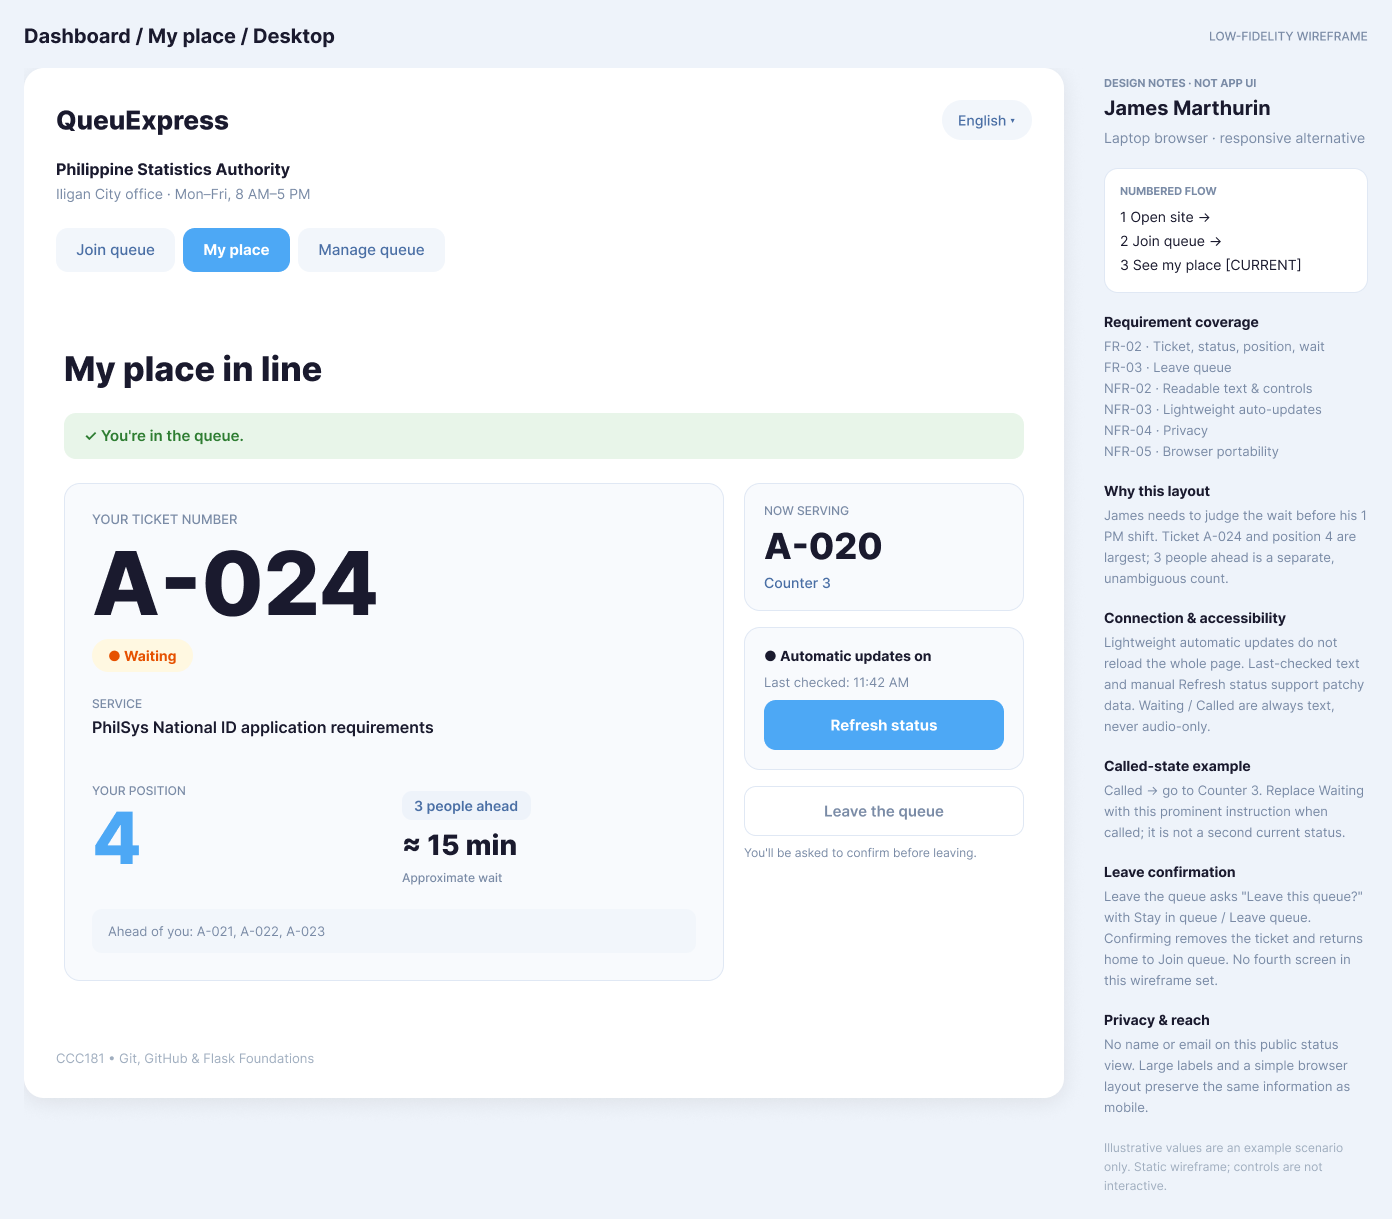
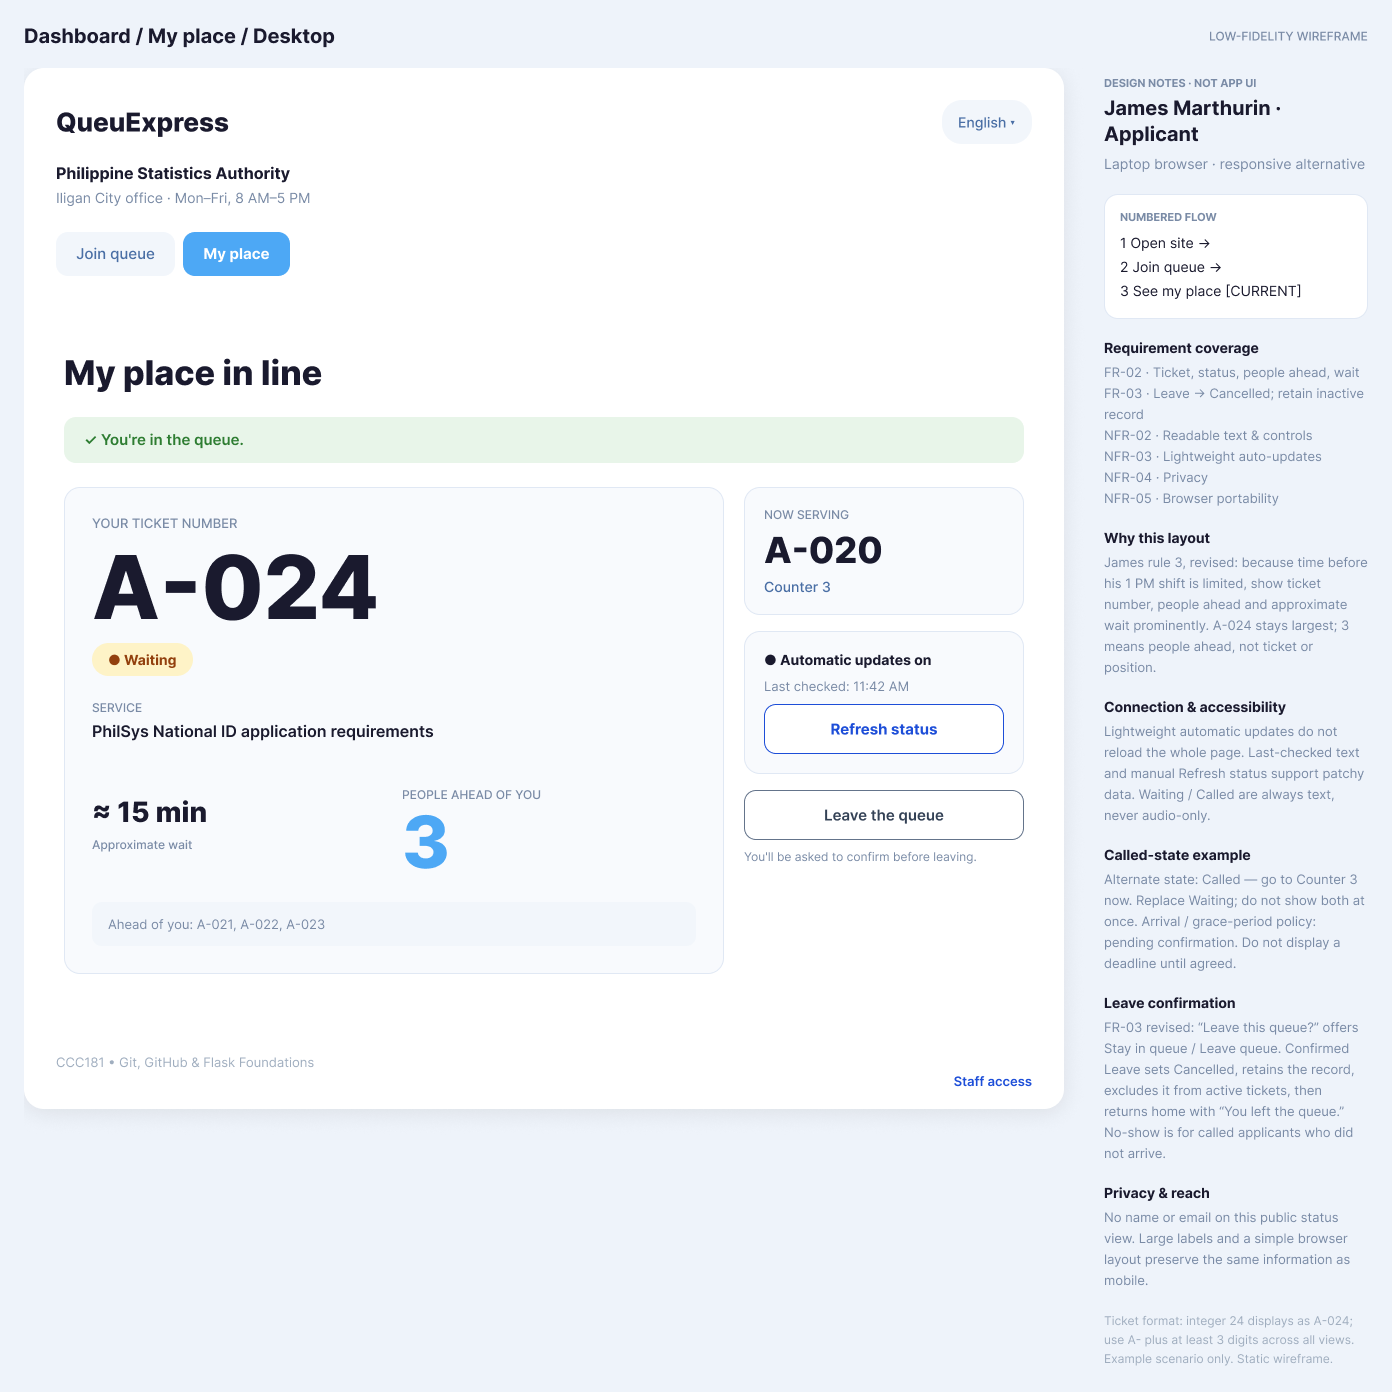
Add Week 3 self-review and update wireframes (#4)

diff --git a/docs/week3/feedback.md b/docs/week3/feedback.md
@@ -1,0 +1,21 @@
+# Week 3: Self-review of personas and wireframes
+
+Reviewed against the James and Donna personas, looking at both the phone and laptop frames of each screen.
+
+## Screen 1: Join queue (James)
+
+> **Works well:** One column, three labeled fields and a full-width "Join queue" button let James see what to do within 5 seconds, even one-handed. The helper text under Email ("Not shown on your ticket view") answers the privacy question at the moment he types, and "Next: your ticket number, position and estimated wait" tells him what happens after he submits. This follows my rule about large, full-width buttons for single-thumb use, and NFR-01.
+> **Problem:** The nav shows "Manage queue" (Donna's staff dashboard) and "My place" (meaningless before he has a ticket) to every applicant. On the phone, "Manage queue" even wraps onto two lines. A tired, one-handed James can tap into the wrong screen by accident. This breaks *match with the real world* and *error prevention*: applicants should only see the choices that make sense for them. The "Quick & easy" box also repeats "No account needed" a second time, which pushes the Join button below the fold on a phone.
+> **Change:** The applicant nav will show only "Join queue" and "My place" (My place appears once a ticket exists). Staff reach "Manage queue" through a separate staff link, not the applicant nav. I will merge "Takes less than 30 seconds" into the single line under the heading and delete the "Quick & easy" box so the form moves up on the phone.
+
+## Screen 2: My place (James)
+
+> **Works well:** The ticket number is the largest element, the status is a text badge with a dot ("Waiting"), and "Automatic updates on / Last checked 11:42 AM" shows James the information is fresh even on spotty lobby data. This is *visibility of system status*, and nothing relies on sound, which follows my rule about high-contrast badges and auto-refresh in a noisy lobby.
+> **Problem:** Two numbers describe the same thing: a large blue "4" (position) and a small "3 people ahead" chip. Beside the ticket number "A-024", a fatigued James can mistake the "4" for his ticket, or read "4" as the number of people ahead. FR-02 asks for the count ahead, and that is the number he uses to decide whether he can step outside with his child. One idea shown as two numbers is a *match with the real world* and *consistency* problem. Also, "Refresh status" is the biggest filled button even though the page updates itself, so it competes with the information, and "Leave the queue" is grey text that looks disabled.
+> **Change:** I will make "3 people ahead" the large figure (labelled "People ahead of you") and remove "Your position 4", keeping "≈ 15 min" beside it. "Refresh status" becomes an outlined secondary button, and "Leave the queue" gets darker text and border so it reads as a real button. I will keep the leave confirmation ("Leave this queue?") because it prevents accidental taps. I will also reword my James rule 3 from "exact position in line" to "people ahead" so the rule matches the wireframe.
+
+## Screen 3: Manage queue (Donna)
+
+> **Works well:** "Call next" comes first and names the ticket it will call ("Call next · A-021"), so Donna never has to remember or look up the number. Serve and No-show are attached to the current called ticket (A-020) instead of every table row, so she can't act on the wrong person. Only Waiting and Called tickets appear, with the rest behind the service filter. This follows my rule about a clean table with simple dropdown filters, and her most frequent action is the easiest to reach.
+> **Problem:** My rule 2 says Serve should be clear green and No-show outline-red, but "Call next" and "Serve" are both solid blue buttons and "No-show" is a neutral outline. Rushing through the morning peak with reduced mouse accuracy, Donna cannot tell "start the next person" from "finish this person" by color, and No-show (which removes an applicant from the queue) looks as harmless as the button beside it. This is an *error prevention* and *consistency* problem. The grey service and details text in the table is also too light for someone who struggles with small, low-contrast text (my rule 1).
+> **Change:** "Serve" becomes solid green, "No-show" a red outline, and "Call next" stays blue so each action has its own color. I will add more space between Serve and No-show and darken the grey table text. I will not add confirmation pop-ups, since Donna's persona dislikes them and the buttons are now distinct.
